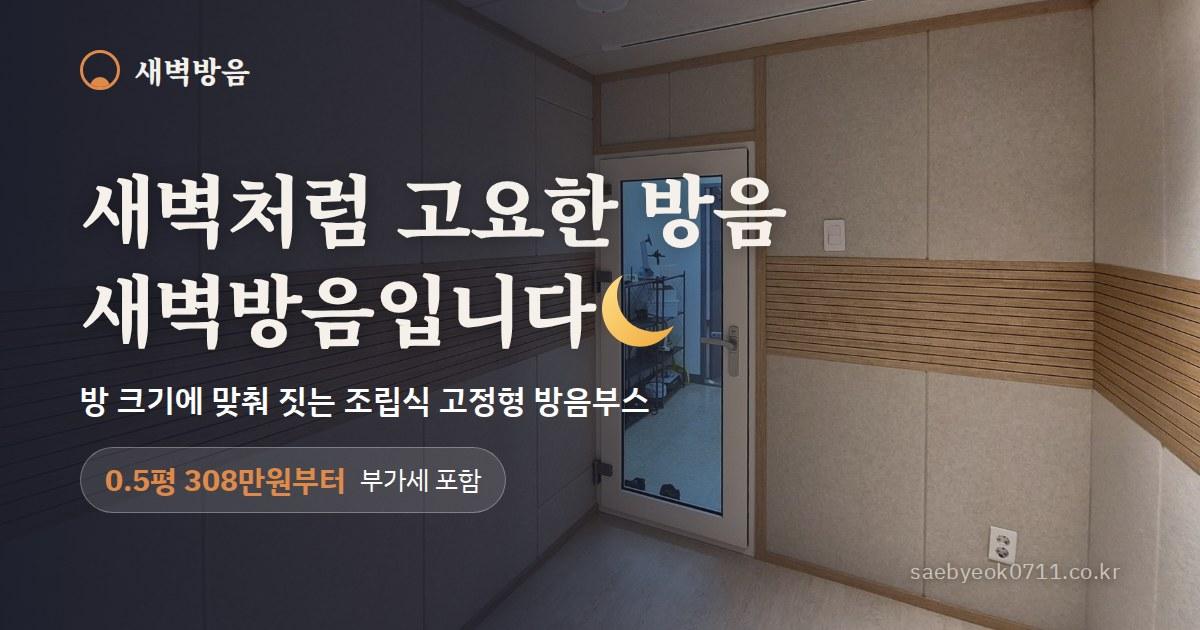
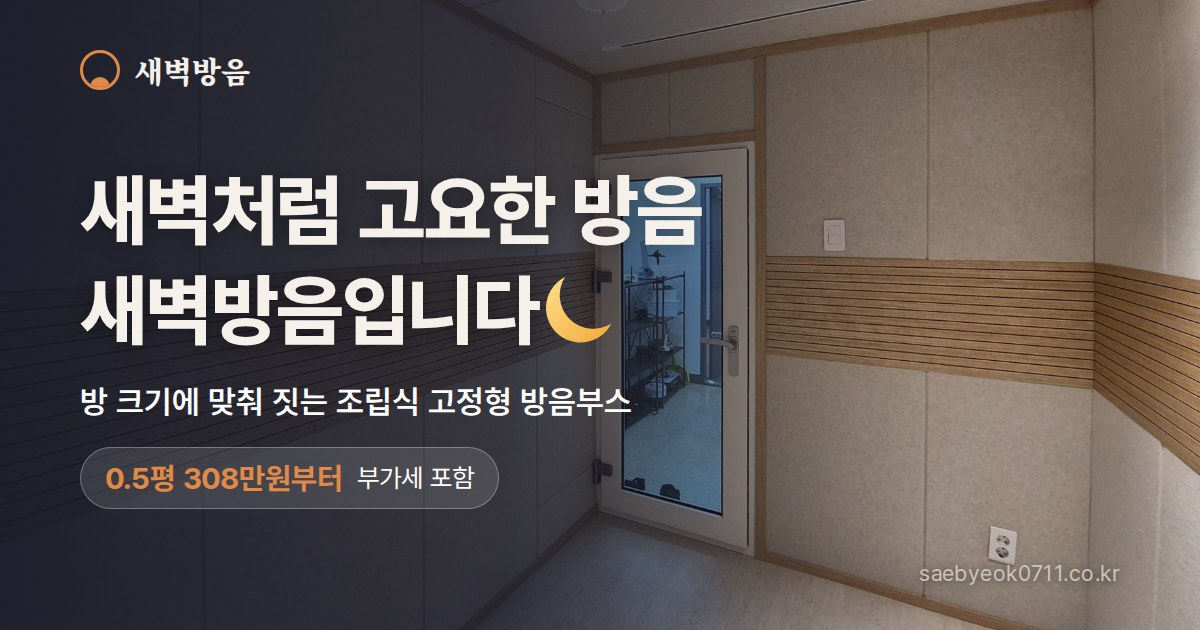
글꼴 정리 ①: 전체를 Pretendard 고딕으로 (참고: 조용한청년들·Framery처럼 고딕 굵은 제목), 명조는 로고 글자에만
- 메인·가격·부스 이전 페이지, 시뮬레이터, 카톡 미리보기 그림 모두 같은 글꼴
- 첫 화면 달 크기를 새 글꼴 글자 키에 맞춤

Claude-Session: https://claude.ai/code/session_01SMxL5N6ASRei7csmEoELRw

diff --git a/index.html b/index.html
@@ -19,19 +19,22 @@
 <meta property="og:title" content="새벽방음 | 조립식 고정형 방음부스 제작·시공">
 <meta property="og:description" content="현직 음악PD가 직접 제작·시공하는 맞춤 방음부스. 월세·전세집에도 시공해요.">
 <meta property="og:url" content="https://saebyeok0711.co.kr/">
-<meta property="og:image" content="https://saebyeok0711.co.kr/og.jpg?v=20261014-3">
+<meta property="og:image" content="https://saebyeok0711.co.kr/og.jpg?v=20261018">
 <meta property="og:image:width" content="1200">
 <meta property="og:image:height" content="630">
 <meta property="og:image:alt" content="새벽처럼 고요한 방음, 새벽방음입니다">
 <meta name="twitter:card" content="summary_large_image">
-<meta name="twitter:image" content="https://saebyeok0711.co.kr/og.jpg?v=20261014-3">
+<meta name="twitter:image" content="https://saebyeok0711.co.kr/og.jpg?v=20261018">
 <meta property="og:locale" content="ko_KR">
 <!-- 검색엔진 소유 확인: 네이버 서치어드바이저·구글 서치콘솔에서 받은 코드를 여기에 넣는다 -->
 <meta name="naver-site-verification" content="fb830cdd23efc989cf359ad6b8a3cb6c835abea4" />
 <meta name="google-site-verification" content="6nFqqDXVDZ5gMvwIluY4yvzICXewrkvv7cxX3t2krSQ" />
 
 <link rel="preconnect" href="https://fonts.googleapis.com">
-<link rel="stylesheet" href="https://fonts.googleapis.com/css2?family=IBM+Plex+Sans+KR:wght@400;500;600;700&family=Noto+Serif+KR:wght@700;900&display=swap">
+<link rel="preconnect" href="https://cdn.jsdelivr.net" crossorigin>
+<!-- 본문·제목: Pretendard (2026-10-18, 가독성 좋은 고딕). 명조는 로고 "새벽방음" 네 글자에만 씀 -->
+<link rel="stylesheet" href="https://cdn.jsdelivr.net/gh/orioncactus/pretendard@v1.3.9/dist/web/variable/pretendardvariable-dynamic-subset.min.css">
+<link rel="stylesheet" href="https://fonts.googleapis.com/css2?family=Noto+Serif+KR:wght@900&text=%EC%83%88%EB%B2%BD%EB%B0%A9%EC%9D%8C&display=swap">
 <style>
 :root{
   --night:#171A28; --night-2:#262A3C; --night-line:#4A4F66; --night-text:#F5F1EA; --night-sub:#C9C4BA; --night-mute:#8A8FA3;
@@ -39,7 +42,7 @@
   --ground:#F5F1EA; --ground-2:#ECE6DB; --card:#FFFFFF; --line:#E3DCD0;
   --ink:#1C1E26; --ink-2:#4A4C55; --ink-3:#6A6C74; --ph:#DCD4C6; --ph-text:#7E786C;
   --serif:'Noto Serif KR','Nanum Myeongjo',serif;
-  --sans:'IBM Plex Sans KR','Apple SD Gothic Neo','Malgun Gothic',sans-serif;
+  --sans:'Pretendard Variable',Pretendard,-apple-system,BlinkMacSystemFont,'Apple SD Gothic Neo','Malgun Gothic',sans-serif;
   --gutter:16px;
 }
 *{box-sizing:border-box}
@@ -50,7 +53,7 @@ body{margin:0;background:var(--ground);color:var(--ink);font-family:var(--sans);
 a{color:inherit;text-decoration:none}
 a:focus-visible{outline:3px solid var(--dawn);outline-offset:3px;border-radius:6px}
 h1,h2,h3{margin:0}
-h1,h2{font-family:var(--serif);font-weight:900;letter-spacing:-.02em;text-wrap:balance}
+h1,h2{font-family:var(--sans);font-weight:800;letter-spacing:-.03em;text-wrap:balance}
 p{margin:0}
 body{word-break:keep-all;overflow-wrap:break-word}
 p,li,h3,h4,.note{text-wrap:pretty}
@@ -96,8 +99,8 @@ section{padding-block:56px}
 .hero-copy{display:flex;flex-direction:column;gap:16px}
 .hero h1{font-size:clamp(30px,8.2vw,56px);line-height:1.3;text-shadow:0 2px 16px rgba(0,0,0,.35)}
 /* 제목 끝 달: 폰마다 다르게 보이는 이모지 대신 얇은 초승달 그림 (어느 폰에서나 같게).
-   글자 키(기준선 위 .86em·아래 .115em)에 맞춰 높이 .92em, 글자 가운데에 오게 내림 */
-.hero h1 .moon{display:inline-block;width:.92em;height:.92em;margin-left:.1em;vertical-align:-.09em}
+   Pretendard 글자 키(기준선 위 .8em·아래 .09em)에 맞춰 높이 .84em, 글자 가운데에 오게 내림 */
+.hero h1 .moon{display:inline-block;width:.84em;height:.84em;margin-left:.1em;vertical-align:-.06em}
 .hero .lead{font-size:clamp(17px,4.6vw,22px);font-weight:600;line-height:1.5;color:#fff;text-wrap:balance}
 .hero-price{align-self:flex-start;display:inline-flex;align-items:center;gap:8px;padding:8px 14px;border-radius:999px;
   background:rgba(255,255,255,.12);border:1px solid rgba(255,255,255,.28);color:#fff;font-size:15px;
@@ -140,7 +143,7 @@ section{padding-block:56px}
 /* 위 회사소개 글과 떨어진 덩어리로: 여백 + 가운데 주황 선 + 가운데 정렬 큰 제목 */
 .cmp{margin-top:48px;text-align:center}
 .cmp::before{content:'';display:block;width:40px;height:3px;border-radius:2px;background:var(--dawn);margin:0 auto 22px}
-.cmp-t{font-family:var(--serif);font-weight:900;font-size:clamp(23px,3vw,30px);line-height:1.35;letter-spacing:-.02em;margin:0 0 10px;text-wrap:balance}
+.cmp-t{font-family:var(--sans);font-weight:800;font-size:clamp(23px,3vw,30px);line-height:1.35;letter-spacing:-.02em;margin:0 0 10px;text-wrap:balance}
 .cmp-d{margin:0 auto 20px;max-width:34em;font-size:15px;line-height:1.6;color:var(--ink-2)}
 .cmp-d b{color:var(--ink);white-space:nowrap}
 .cmp-d .nw{white-space:nowrap}
@@ -262,7 +265,7 @@ a.case:hover b{text-decoration:underline}
 /* 부스 이전 배너: 안양 이전 현장 사진 위에 한 줄 */
 .move-band{padding-block:56px;background:linear-gradient(rgba(23,26,40,.78),rgba(23,26,40,.78)),url(photos/case2/anyang-1.jpg) center/cover}
 .move-band .wrap{display:flex;flex-direction:column;align-items:center;text-align:center;gap:10px}   /* 짧은 제목+한 줄+버튼이라 가운데 */
-.move-band h2{font-family:var(--serif);font-size:clamp(26px,6vw,36px);line-height:1.3}
+.move-band h2{font-family:var(--sans);font-size:clamp(26px,6vw,36px);line-height:1.3}
 .move-band p{color:var(--night-sub);font-size:15px;line-height:1.7}
 .move-band .btn{margin-top:10px}
 @media (min-width:720px){.move-band{padding-block:72px}}
@@ -458,7 +461,7 @@ footer .logo{font-size:16px;color:#D9D4CA;margin-bottom:4px}
         <p>크기를 넣으면 예상 가격이 바로 나와요. 가장 많이 쓰는 마감재만 고를 수 있고, 더 자세한 설정은 실측 때 함께 정해요.</p>
       </div>
       <div class="sim-slot">
-        <iframe class="sim-frame" id="sim-frame" src="simulator.html?v=20261013-2" title="방음부스 미리보기" loading="lazy" allow="clipboard-write"></iframe>
+        <iframe class="sim-frame" id="sim-frame" src="simulator.html?v=20261018-1" title="방음부스 미리보기" loading="lazy" allow="clipboard-write"></iframe>
         <div class="note sim-help">
           <p><b>모바일 :</b> 한 손가락으로 끌어서 돌리고, 두 손가락으로 벌려서 확대해요. 벽을 터치하면 타공판을 놓거나 뺄 수 있어요.</p>
           <p><b>데스크탑 :</b> 마우스로 끌어서 돌리고, 스크롤로 확대해요. 벽을 클릭하면 타공판을 놓거나 뺄 수 있어요.</p>

diff --git a/move/index.html b/move/index.html
@@ -15,13 +15,16 @@
 <meta property="og:title" content="방음부스 이전·증축·철거 | 새벽방음">
 <meta property="og:description" content="쓰던 방음부스, 버리지 말고 옮기세요. 새 공간에 맞춰 늘리고, 쓰지 않으면 깔끔하게 철거해요.">
 <meta property="og:url" content="https://saebyeok0711.co.kr/move/">
-<meta property="og:image" content="https://saebyeok0711.co.kr/og.jpg?v=20261014-3">
+<meta property="og:image" content="https://saebyeok0711.co.kr/og.jpg?v=20261018">
 <meta property="og:image:width" content="1200">
 <meta property="og:image:height" content="630">
 <meta property="og:locale" content="ko_KR">
 <meta name="twitter:card" content="summary_large_image">
 <link rel="preconnect" href="https://fonts.googleapis.com">
-<link rel="stylesheet" href="https://fonts.googleapis.com/css2?family=IBM+Plex+Sans+KR:wght@400;500;600;700&family=Noto+Serif+KR:wght@700;900&display=swap">
+<link rel="preconnect" href="https://cdn.jsdelivr.net" crossorigin>
+<!-- 본문·제목: Pretendard (2026-10-18, 가독성 좋은 고딕). 명조는 로고 "새벽방음" 네 글자에만 씀 -->
+<link rel="stylesheet" href="https://cdn.jsdelivr.net/gh/orioncactus/pretendard@v1.3.9/dist/web/variable/pretendardvariable-dynamic-subset.min.css">
+<link rel="stylesheet" href="https://fonts.googleapis.com/css2?family=Noto+Serif+KR:wght@900&text=%EC%83%88%EB%B2%BD%EB%B0%A9%EC%9D%8C&display=swap">
 <style>
 /* 메인(index.html)과 같은 색·글꼴·부품을 쓴다. 메인 디자인을 바꾸면 여기도 맞출 것 */
 :root{
@@ -30,7 +33,7 @@
   --ground:#F5F1EA; --ground-2:#ECE6DB; --card:#FFFFFF; --line:#E3DCD0;
   --ink:#1C1E26; --ink-2:#4A4C55; --ink-3:#6A6C74;
   --serif:'Noto Serif KR','Nanum Myeongjo',serif;
-  --sans:'IBM Plex Sans KR','Apple SD Gothic Neo','Malgun Gothic',sans-serif;
+  --sans:'Pretendard Variable',Pretendard,-apple-system,BlinkMacSystemFont,'Apple SD Gothic Neo','Malgun Gothic',sans-serif;
   --gutter:16px;
 }
 *{box-sizing:border-box}
@@ -41,7 +44,7 @@ body{margin:0;background:var(--ground);color:var(--ink);font-family:var(--sans);
 a{color:inherit;text-decoration:none}
 a:focus-visible{outline:3px solid var(--dawn);outline-offset:3px;border-radius:6px}
 h1,h2,h3{margin:0}
-h1,h2{font-family:var(--serif);font-weight:900;letter-spacing:-.02em;text-wrap:balance}
+h1,h2{font-family:var(--sans);font-weight:800;letter-spacing:-.03em;text-wrap:balance}
 p{margin:0}
 p,li,h3,.note{text-wrap:pretty}
 .wrap{max-width:1160px;margin:0 auto;padding-inline:var(--gutter)}
@@ -78,7 +81,7 @@ section{padding-block:56px}
 .crumb a{color:var(--night-sub);text-decoration:underline;text-underline-offset:3px}
 .hero h1{font-size:clamp(30px,5.4vw,54px);line-height:1.25}
 .nw{white-space:nowrap}
-.hero .lead{font-family:var(--serif);font-weight:700;font-size:clamp(19px,2.4vw,24px);color:var(--dawn)}
+.hero .lead{font-family:var(--sans);font-weight:700;font-size:clamp(19px,2.4vw,24px);color:var(--dawn)}
 .hero p.desc .hl{color:var(--night-text)}
 .hero p.desc{font-size:clamp(16px,1.8vw,18px);line-height:1.75;color:var(--night-sub);max-width:32em}
 .btns{display:grid;grid-template-columns:1fr 1fr;gap:10px}

diff --git a/price/index.html b/price/index.html
@@ -15,13 +15,16 @@
 <meta property="og:title" content="방음부스 가격 — 크기별 가격 공개 | 새벽방음">
 <meta property="og:description" content="0.5평 싱글 308만원부터, 부가세·설치비 포함. 크기별 가격을 투명하게 공개합니다.">
 <meta property="og:url" content="https://saebyeok0711.co.kr/price/">
-<meta property="og:image" content="https://saebyeok0711.co.kr/og.jpg?v=20261014-3">
+<meta property="og:image" content="https://saebyeok0711.co.kr/og.jpg?v=20261018">
 <meta property="og:image:width" content="1200">
 <meta property="og:image:height" content="630">
 <meta property="og:locale" content="ko_KR">
 <meta name="twitter:card" content="summary_large_image">
 <link rel="preconnect" href="https://fonts.googleapis.com">
-<link rel="stylesheet" href="https://fonts.googleapis.com/css2?family=IBM+Plex+Sans+KR:wght@400;500;600;700&family=Noto+Serif+KR:wght@700;900&display=swap">
+<link rel="preconnect" href="https://cdn.jsdelivr.net" crossorigin>
+<!-- 본문·제목: Pretendard (2026-10-18, 가독성 좋은 고딕). 명조는 로고 "새벽방음" 네 글자에만 씀 -->
+<link rel="stylesheet" href="https://cdn.jsdelivr.net/gh/orioncactus/pretendard@v1.3.9/dist/web/variable/pretendardvariable-dynamic-subset.min.css">
+<link rel="stylesheet" href="https://fonts.googleapis.com/css2?family=Noto+Serif+KR:wght@900&text=%EC%83%88%EB%B2%BD%EB%B0%A9%EC%9D%8C&display=swap">
 <style>
 /* 메인(index.html)과 같은 색·글꼴·부품을 쓴다. 메인 디자인을 바꾸면 여기도 맞출 것 */
 :root{
@@ -30,7 +33,7 @@
   --ground:#F5F1EA; --ground-2:#ECE6DB; --card:#FFFFFF; --line:#E3DCD0;
   --ink:#1C1E26; --ink-2:#4A4C55; --ink-3:#6A6C74;
   --serif:'Noto Serif KR','Nanum Myeongjo',serif;
-  --sans:'IBM Plex Sans KR','Apple SD Gothic Neo','Malgun Gothic',sans-serif;
+  --sans:'Pretendard Variable',Pretendard,-apple-system,BlinkMacSystemFont,'Apple SD Gothic Neo','Malgun Gothic',sans-serif;
   --gutter:16px;
 }
 *{box-sizing:border-box}
@@ -41,7 +44,7 @@ body{margin:0;background:var(--ground);color:var(--ink);font-family:var(--sans);
 a{color:inherit;text-decoration:none}
 a:focus-visible{outline:3px solid var(--dawn);outline-offset:3px;border-radius:6px}
 h1,h2,h3{margin:0}
-h1,h2{font-family:var(--serif);font-weight:900;letter-spacing:-.02em;text-wrap:balance}
+h1,h2{font-family:var(--sans);font-weight:800;letter-spacing:-.03em;text-wrap:balance}
 p{margin:0}
 p,li,h3,.note{text-wrap:pretty}
 .wrap{max-width:1160px;margin:0 auto;padding-inline:var(--gutter)}
@@ -78,7 +81,7 @@ section{padding-block:56px}
 .crumb a{color:var(--night-sub);text-decoration:underline;text-underline-offset:3px}
 .hero h1{font-size:clamp(30px,5.4vw,54px);line-height:1.25}
 .nw{white-space:nowrap}
-.hero .lead{font-family:var(--serif);font-weight:700;font-size:clamp(19px,2.4vw,24px);color:var(--dawn)}
+.hero .lead{font-family:var(--sans);font-weight:700;font-size:clamp(19px,2.4vw,24px);color:var(--dawn)}
 .hero p.desc .hl{color:var(--night-text)}
 .hero p.desc{font-size:clamp(16px,1.8vw,18px);line-height:1.75;color:var(--night-sub);max-width:32em}
 .btns{display:grid;grid-template-columns:1fr 1fr;gap:10px}

diff --git a/.github/og/og.html b/.github/og/og.html
@@ -1,18 +1,19 @@
 <!doctype html><html lang="ko"><head><meta charset="utf-8">
 <!-- 카톡·문자 링크 미리보기 그림(og.jpg) 원본. 첫 화면과 같은 디자인: 대표 사진 위에 큰 글씨 + 가격.
      크롬으로 1200×630 캡처해서 저장소 맨 위 og.jpg로 저장 -->
-<link rel="stylesheet" href="https://fonts.googleapis.com/css2?family=IBM+Plex+Sans+KR:wght@400;500;600;700&family=Noto+Serif+KR:wght@700;900&display=swap">
+<link rel="stylesheet" href="https://cdn.jsdelivr.net/gh/orioncactus/pretendard@v1.3.9/dist/web/variable/pretendardvariable-dynamic-subset.min.css">
+<link rel="stylesheet" href="https://fonts.googleapis.com/css2?family=Noto+Serif+KR:wght@900&display=swap">
 <style>
 html,body{margin:0}
-body{position:relative;width:1200px;height:630px;overflow:hidden;color:#F5F1EA;font-family:'IBM Plex Sans KR',sans-serif;
+body{position:relative;width:1200px;height:630px;overflow:hidden;color:#F5F1EA;font-family:'Pretendard Variable',Pretendard,sans-serif;
   display:flex;flex-direction:column;justify-content:center;padding:40px 80px 0;box-sizing:border-box;word-break:keep-all;
   background:linear-gradient(90deg,rgba(23,26,40,.95) 0%,rgba(23,26,40,.78) 42%,rgba(23,26,40,.15) 78%,rgba(23,26,40,0) 100%),
     url("../../photos/hero/20260129_190922(1).jpg") right 30% center/cover #171A28}
 .logo{position:absolute;top:48px;left:80px;display:flex;align-items:center;gap:14px;font-family:'Noto Serif KR',serif;font-weight:900;font-size:30px}
 .mark{width:40px;height:40px;border-radius:50%;border:3px solid #E08A4A;display:flex;align-items:flex-end;justify-content:center;overflow:hidden;box-sizing:border-box}
 .mark i{width:20px;height:10px;background:#E08A4A;border-radius:10px 10px 0 0}
-h1{font-family:'Noto Serif KR',serif;font-weight:900;font-size:78px;line-height:1.28;letter-spacing:-.02em;margin:0;text-shadow:0 2px 18px rgba(0,0,0,.35)}
-h1 .moon{display:inline-block;width:.92em;height:.92em;margin-left:.1em;vertical-align:-.09em}
+h1{font-weight:800;font-size:78px;line-height:1.28;letter-spacing:-.02em;margin:0;text-shadow:0 2px 18px rgba(0,0,0,.35)}
+h1 .moon{display:inline-block;width:.84em;height:.84em;margin-left:.1em;vertical-align:-.06em}
 .lead{font-size:32px;font-weight:600;color:#fff;margin:22px 0 0}
 .price{align-self:flex-start;display:flex;align-items:center;gap:14px;margin-top:26px;padding:12px 24px;border-radius:999px;
   background:rgba(255,255,255,.12);border:1.5px solid rgba(255,255,255,.3);font-size:26px;color:#fff}

diff --git a/simulator.html b/simulator.html
@@ -1,12 +1,13 @@
 <!doctype html><html><head><meta charset=utf8><meta name="robots" content="noindex"><meta name=viewport content="width=device-width,initial-scale=1"><style>:root{color-scheme:light}body{margin:0;padding:0;font:14px -apple-system,BlinkMacSystemFont,sans-serif;background:#faf9f5;color:#141413}img{max-width:100%}[hidden]:not([hidden=until-found i]){display:none!important}</style></head><body>
 <meta name="viewport" content="width=device-width, initial-scale=1">
 <title>방음부스 미리보기</title>
-<link rel="stylesheet" href="https://fonts.googleapis.com/css2?family=IBM+Plex+Sans+KR:wght@400;500&family=IBM+Plex+Mono:wght@400;500&display=swap">
+<link rel="stylesheet" href="https://cdn.jsdelivr.net/gh/orioncactus/pretendard@v1.3.9/dist/web/variable/pretendardvariable-dynamic-subset.min.css">
+<link rel="stylesheet" href="https://fonts.googleapis.com/css2?family=IBM+Plex+Mono:wght@400;500&display=swap">
 <style>
   :root{
     --bg:#F3F4F3; --surface:#FFFFFF; --border:#E0E2E0; --border-strong:#C8CCC9;
     --text-primary:#1A1C1A; --text-secondary:#636763; --ring:#1A1C1A;
-    --sans:'IBM Plex Sans KR',-apple-system,BlinkMacSystemFont,'Apple SD Gothic Neo','Malgun Gothic',sans-serif;
+    --sans:'Pretendard Variable',Pretendard,-apple-system,BlinkMacSystemFont,'Apple SD Gothic Neo','Malgun Gothic',sans-serif;
     --mono:'IBM Plex Mono',ui-monospace,SFMono-Regular,Menlo,monospace;
   }
   @media (prefers-color-scheme:dark){ :root:not([data-theme="light"]){

diff --git a/CLAUDE.md b/CLAUDE.md
@@ -5,6 +5,10 @@
 - simulator.html을 고치면 index.html의 iframe 주소 `simulator.html?v=...` 값도 바꿀 것 (브라우저가 예전 시뮬레이터를 기억하지 않게)
 - 수정하면 main에 바로 push (GitHub Pages로 바로 반영됨). push가 안 되면 사용자가 뭘 눌러야 하는지만 쉽게 안내.
 
+## 글꼴 (2026-10-18)
+- 본문·제목 모두 Pretendard(jsDelivr, 가독성 좋은 고딕). 제목은 굵기 800. 명조(Noto Serif KR)는 로고 "새벽방음" 네 글자에만(구글폰트 text= 로 네 글자만 받음).
+- 세 페이지·시뮬레이터·og.html 모두 같은 글꼴. 첫 화면 제목 끝 달(.moon)은 Pretendard 글자 키에 맞춘 크기(.84em).
+
 ## 줄바꿈 규칙 (항상 지킬 것)
 - 모바일·PC 모두에서 문장 끝 1~2글자(예: "지.", "요.")만 다음 줄로 튀어나오면 안 됨.
 - 문구를 바꾸거나 레이아웃을 건드리면 반드시 검사하고, 걸리면 알아서 폰트 크기·줄나눔을 조정할 것.
